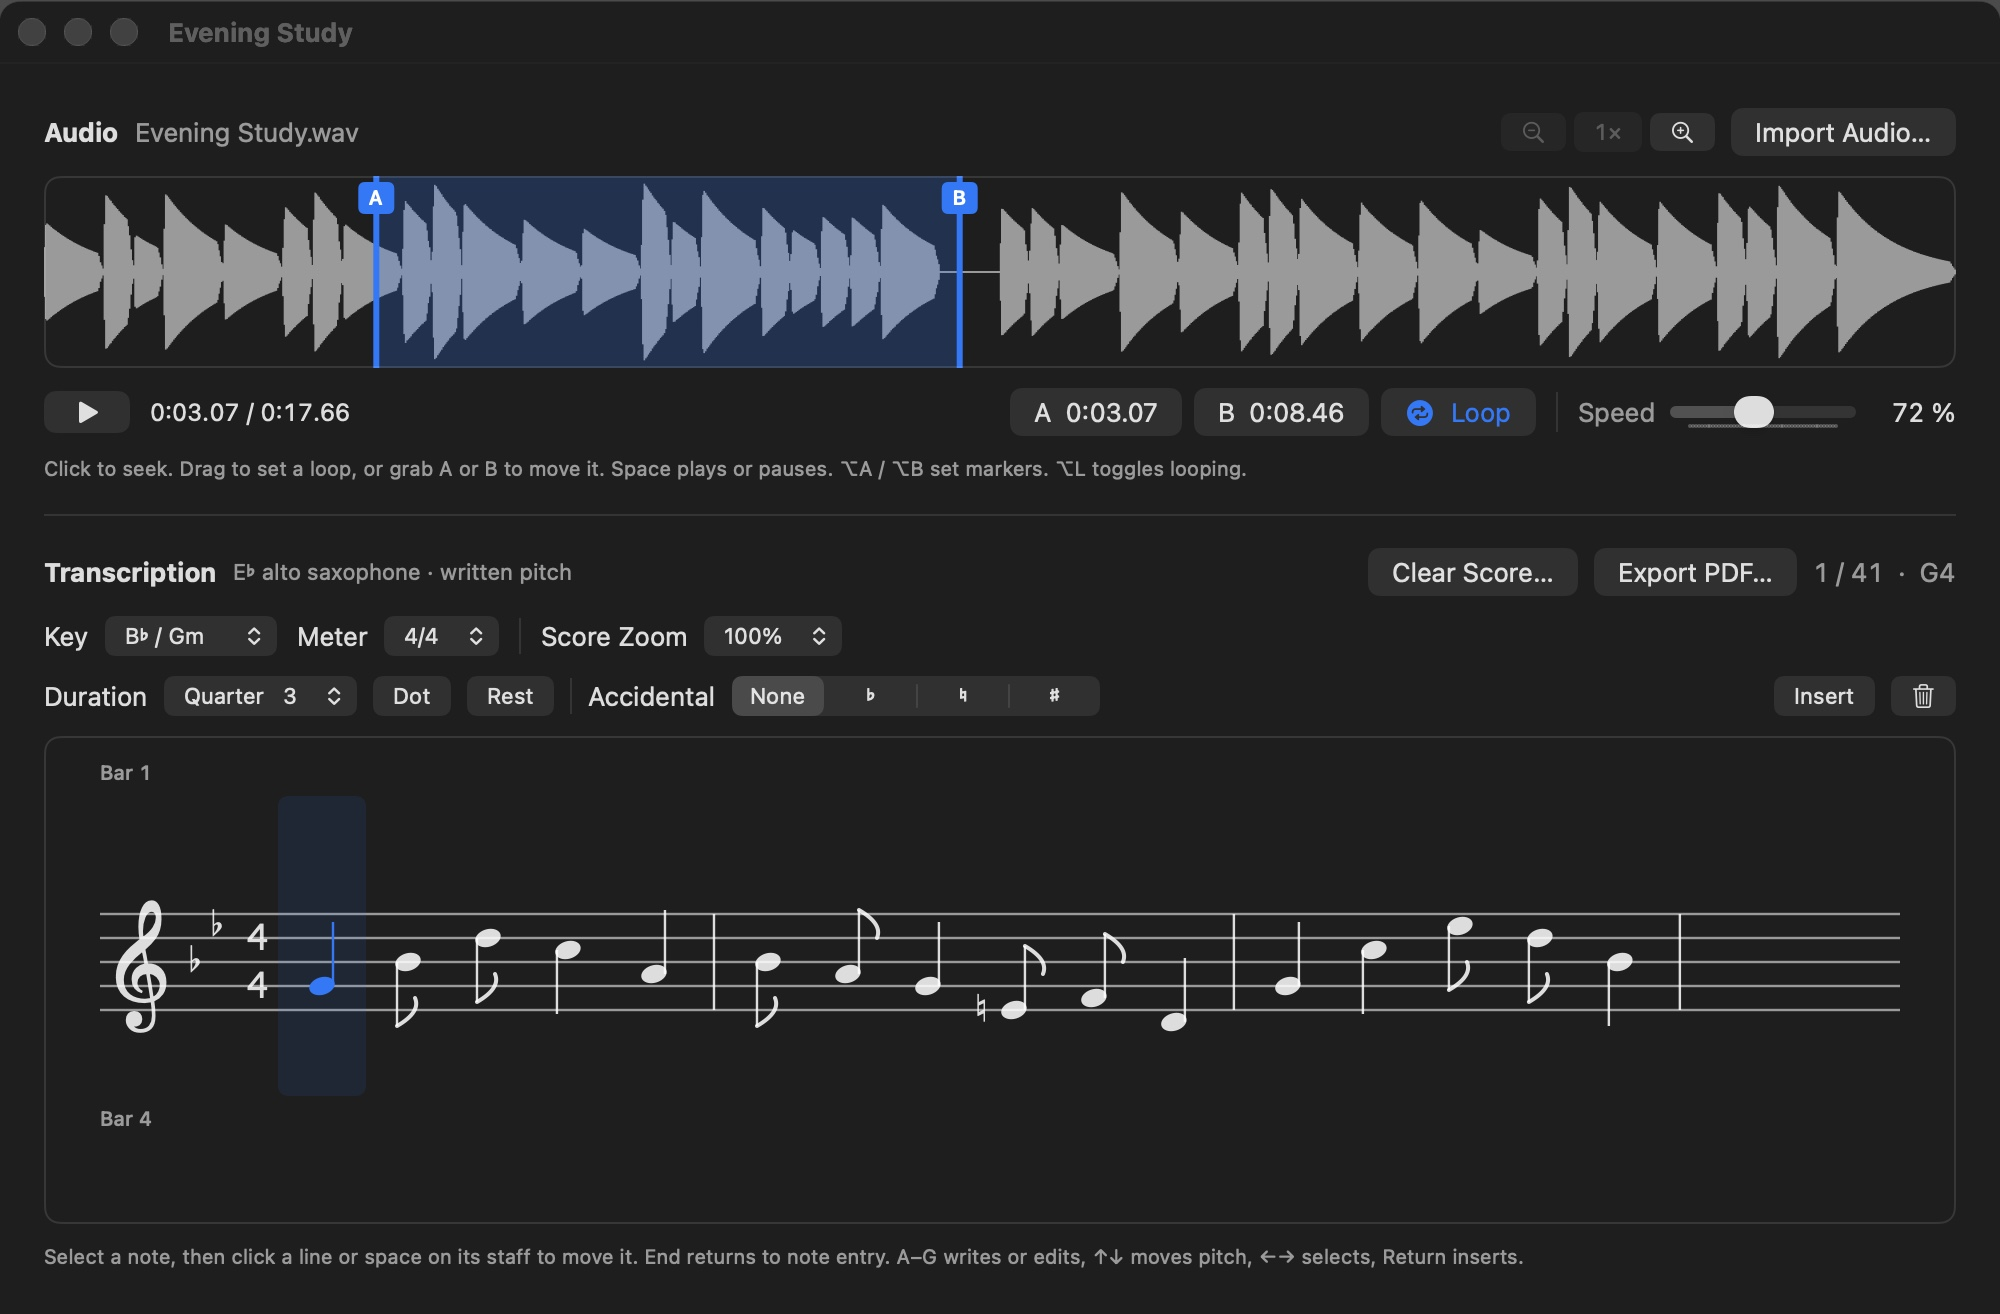
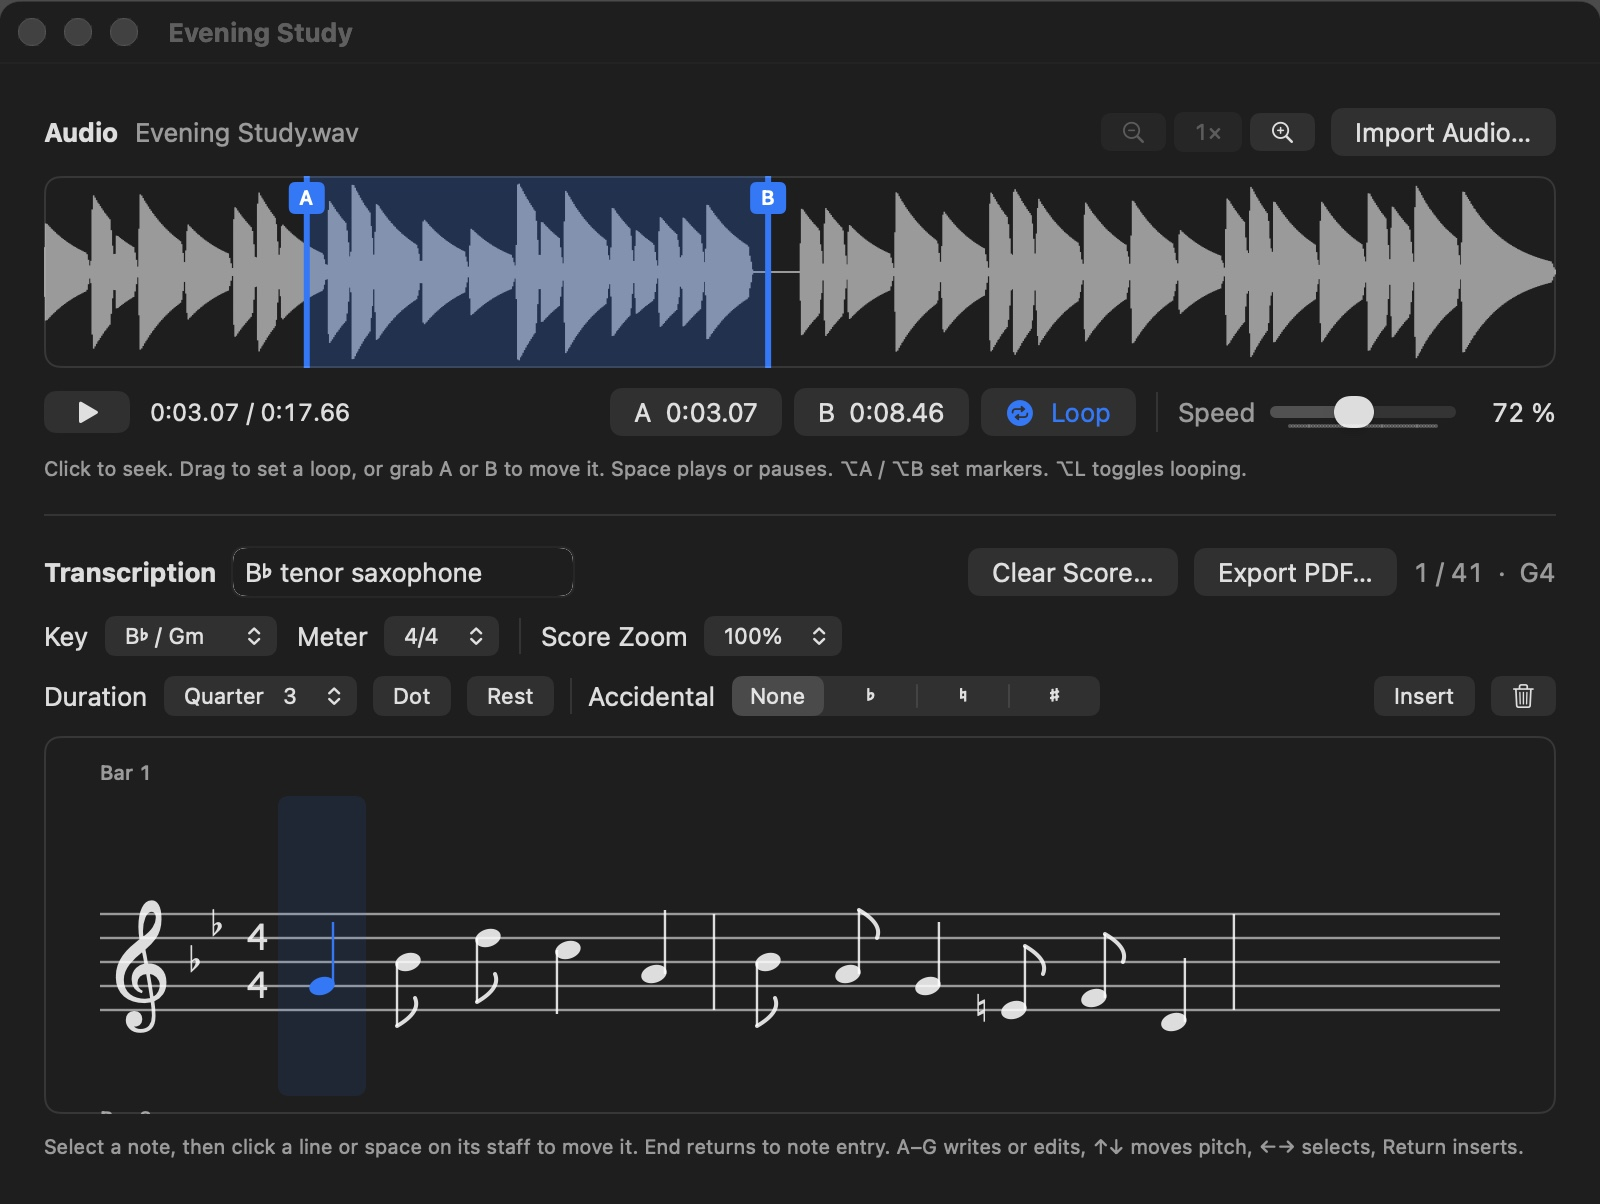
Show only the Body and Soul name on the homepage

diff --git a/docs/index.html b/docs/index.html
@@ -5,19 +5,19 @@
   <meta name="viewport" content="width=device-width, initial-scale=1">
   <meta name="description" content="Slow down recordings, loop a phrase, and write it out by ear in treble clef. A free Mac app for music transcription.">
   <meta property="og:type" content="website">
-  <meta property="og:title" content="Body &amp; Soul · Playback and transcription for Mac">
+  <meta property="og:title" content="Body and Soul · Playback and transcription for Mac">
   <meta property="og:description" content="A free Mac app for transcribing music by ear in treble clef.">
-  <meta property="og:url" content="https://oscarwroche.github.io/alto-transcription/">
-  <meta property="og:image" content="https://oscarwroche.github.io/alto-transcription/assets/editor.jpg">
-  <title>Body &amp; Soul · Playback and transcription for Mac</title>
+  <meta property="og:url" content="https://oscarwroche.github.io/body-and-soul/">
+  <meta property="og:image" content="https://oscarwroche.github.io/body-and-soul/assets/editor.jpg">
+  <title>Body and Soul · Playback and transcription for Mac</title>
   <link rel="stylesheet" href="style.css">
 </head>
 <body>
   <header class="shell site-header">
-    <a class="brand" href="./">Body &amp; Soul</a>
+    <a class="brand" href="./">Body and Soul</a>
     <nav aria-label="Main">
       <a href="#install">Install</a>
-      <a href="https://github.com/oscarwroche/alto-transcription">GitHub</a>
+      <a href="https://github.com/oscarwroche/body-and-soul">GitHub</a>
     </nav>
   </header>
   <main class="shell">
@@ -26,14 +26,14 @@
         <p class="eyebrow">Playback and transcription for Mac</p>
         <h1 id="title">Write the solo you hear.</h1>
         <p class="intro">Slow down a recording, loop a phrase, and write the notes by ear on a treble staff.</p>
-        <a class="button" href="https://github.com/oscarwroche/alto-transcription/releases/download/v1.3.6/Alto-Transcription-v1.3.6-macOS-arm64.dmg">Download for Mac</a>
+        <a class="button" href="https://github.com/oscarwroche/body-and-soul/releases/download/v1.3.6/Alto-Transcription-v1.3.6-macOS-arm64.dmg">Download for Mac</a>
         <p class="requirements">Free beta · Apple Silicon · macOS 14 or later</p>
       </div>
       <figure class="editor">
         <a href="assets/editor.jpg">
-          <img src="assets/editor.jpg" width="2000" height="1314" alt="Alto’s Mac editor with A and B set on the waveform, playback speed at 72%, and an editable treble-clef score below.">
+          <img src="assets/editor.jpg" width="1600" height="1204" alt="The Mac editor with A and B set on the waveform, playback speed at 72%, and an editable treble-clef score below.">
         </a>
-        <figcaption>A demo phrase in the editor. Select the image to view it full size.</figcaption>
+        <figcaption>A demo phrase in the next beta. Select the image to view it full size.</figcaption>
       </figure>
     </section>
 
@@ -57,23 +57,23 @@
         <h2 id="install-title">Install on your Mac</h2>
         <ol>
           <li>Download and open the disk image.</li>
-          <li>Drag <strong>Alto Transcription Updates</strong> into Applications. That’s the name on the v1.3.6 installer.</li>
+          <li>Drag the app into Applications.</li>
           <li>Open the app from Applications.</li>
         </ol>
-        <p>The beta is unnotarized. If macOS blocks the first launch, open <strong>System Settings → Privacy &amp; Security</strong> and choose <strong>Open Anyway</strong> for Alto. <a href="https://support.apple.com/en-us/102445">Apple’s first-launch guide</a></p>
-        <p><a href="https://github.com/oscarwroche/alto-transcription/releases">Releases and checksums</a></p>
+        <p>The beta is unnotarized. If macOS blocks the first launch, open <strong>System Settings → Privacy &amp; Security</strong> and choose <strong>Open Anyway</strong> for the app. <a href="https://support.apple.com/en-us/102445">Apple’s first-launch guide</a></p>
+        <p><a href="https://github.com/oscarwroche/body-and-soul/releases">Releases and checksums</a></p>
       </div>
       <figure class="print">
         <a href="assets/score.webp">
-          <img src="assets/score.webp" width="1224" height="820" loading="lazy" alt="The exported Evening Study score with a title, an E-flat alto instrument label, and two rows of printed treble-clef notation.">
+          <img src="assets/score.webp" width="765" height="520" loading="lazy" alt="The exported Evening Study score with a B-flat tenor saxophone label and two rows of printed treble-clef notation.">
         </a>
-        <figcaption>The same phrase exported as a PDF. The current beta labels the editor and PDFs “E♭ alto saxophone · written pitch.”</figcaption>
+        <figcaption>The same phrase exported as a PDF with an instrument label.</figcaption>
       </figure>
     </section>
   </main>
   <footer class="shell site-footer">
-    <span>Body &amp; Soul, formerly Alto Transcription</span>
-    <a href="https://github.com/oscarwroche/alto-transcription/issues">Report an issue</a>
+    <span>Body and Soul</span>
+    <a href="https://github.com/oscarwroche/body-and-soul/issues">Report an issue</a>
   </footer>
 </body>
 </html>
